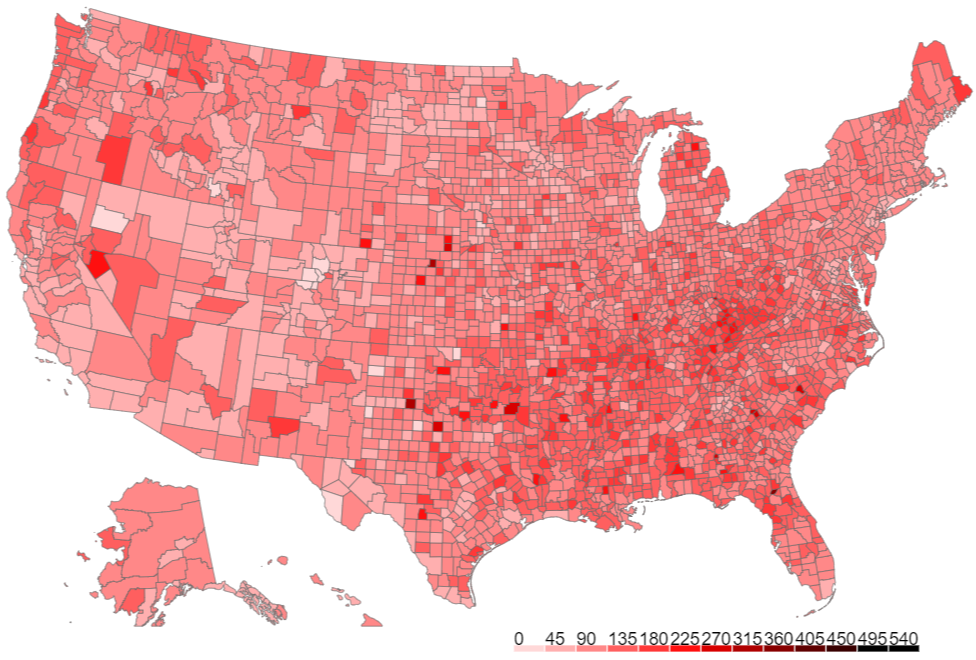
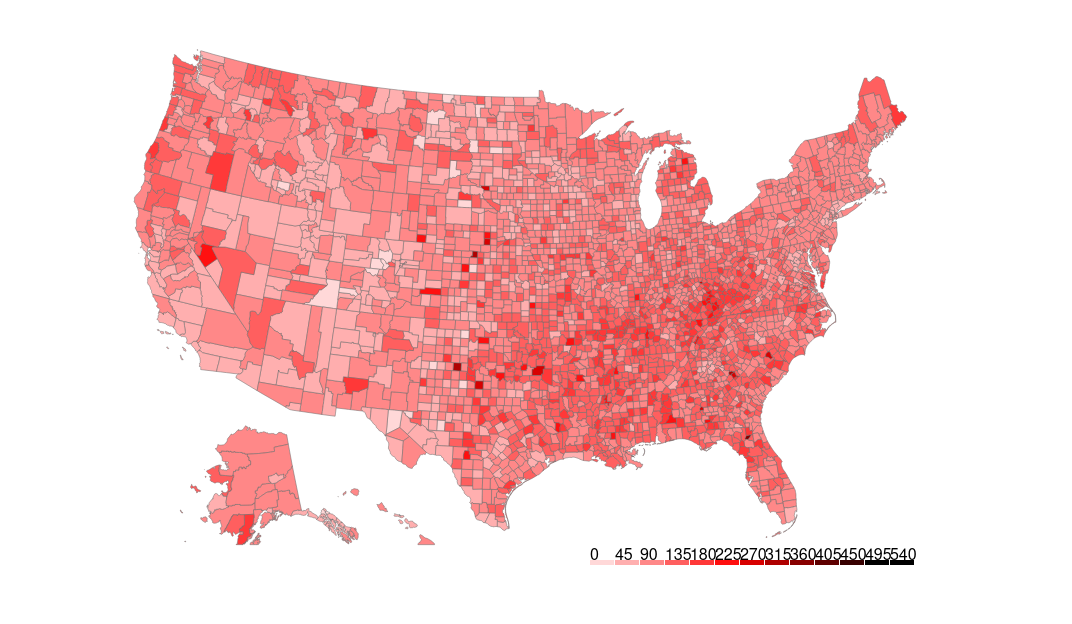
auto generate map, which takes 5 to 10 minutues to run

diff --git a/www/d3_animation.js b/www/d3_animation.js
@@ -9,7 +9,7 @@ var root = svg
   
 function sequenceMap(index,tooltip,cause) {
     var death_rate_domain = [0,10,20,30,40,50,60,70,80,90,100,110,120];
-    if (cause == "Cardiovascular" || cause == "Cancer") {
+    if (cause == "Cardio" || cause == "Cancer") {
       death_rate_domain = [0,45,90,135,180,225,270,315,360,405,450,495,540];
     }
     else if (cause == "Assault") {
@@ -49,7 +49,7 @@ r2d3.onRender(function(data, svg, width, height, options) {
   var stat = data[1];
   var cause = data[2];
   var death_rate_domain = [0,10,20,30,40,50,60,70,80,90,100,110,120];
-    if (cause == "Cardiovascular" || cause == "Cancer") {
+    if (cause == "Cardio" || cause == "Cancer") {
       death_rate_domain = [0,45,90,135,180,225,270,315,360,405,450,495,540];
     }
     else if (cause == "Assault") {
@@ -65,7 +65,6 @@ r2d3.onRender(function(data, svg, width, height, options) {
   var tooltip = d3.select("body").append("div") 
         .attr("class", "tooltip")       
         .style("opacity", 0);
-  root.attr("transform", "translate(" + 250 + "," + 0 + ")");
   
   var geo = topojson.feature(us, us.objects.collection);
   //only newyork state data
@@ -93,7 +92,7 @@ r2d3.onRender(function(data, svg, width, height, options) {
       .attr("class", "state")
       .attr("d", path)
       .attr("fill",function(d){
-          return color(d.properties.death_rate[1]);
+          return color(d.properties.death_rate[0]);
       })
       .on("mouseover", function(d) {    //the hovering effect
             tooltip.transition()    
@@ -122,13 +121,26 @@ r2d3.onRender(function(data, svg, width, height, options) {
           .attr({
               width: 24,
               height: 5,
-              y: 50,
+              y: 520,
               x: function (d, i) {
-                  return 750 + 25 * i;
+                  return 550 + 25 * i;
               },
               fill: color
           });
   
+  svg.selectAll("text")
+      .data(death_rate_domain)
+      .enter()
+      .append("text")
+      .attr({
+        y:520,
+        x:function(d,i){
+          return 550 + 25 * i;
+        }})
+      .text(function(d){
+          return d;
+        })
+      ;
           
   var index = 0;        
   var timer;
@@ -137,30 +149,13 @@ r2d3.onRender(function(data, svg, width, height, options) {
   var year2;
   var ten_year;
   var ten_year2;
-    d3.select('#play')  
-    .on('click', function() {  // when user clicks the play button
-      if(playing == false) {  // if the map is currently playing
-        timer = setInterval(function(){   // set a JS interval
+  setInterval(function(){   // set a JS interval
           if(index < 5) {  
               index += 1;  // increment the current attribute counter
           } else {
               index = 0;  // or reset it to zero
           }
-          sequenceMap(index,tooltip,cause);  // update the representation of the map 
-          year = index*3;
-          year2 = year + 2;
-          ten_year = Math.floor(year/10);
-          ten_year2 = Math.floor(year2/10);
-          d3.select('#clock').html("20" + ten_year + year%10 + "-" + "20" + ten_year2 + year2%10);  // update the clock
-        }, 2000);
-        
-        
-        d3.select(this).html('stop');  // change the button label to stop
-        playing = true;   // change the status of the animation
-      } else {    // else if is currently playing
-        clearInterval(timer);   // stop the animation by clearing the interval
-        d3.select(this).html('play');   // change the button label to play
-        playing = false;   // change the status again
-      }
-  });
+          sequenceMap(index,tooltip,cause);
+    
+  }, 2000);
 });
